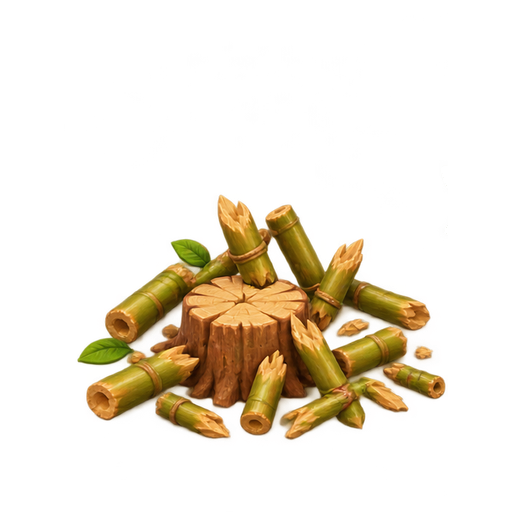
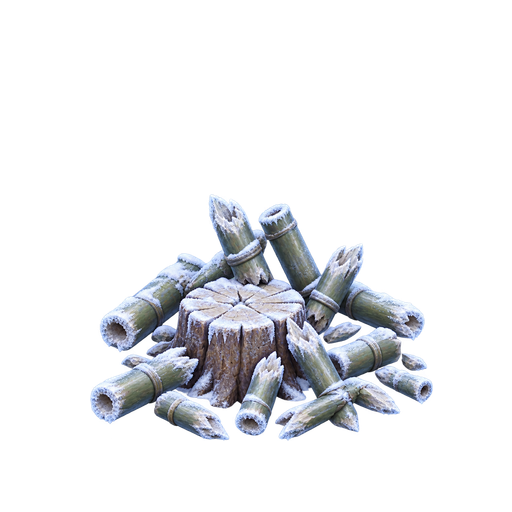
Workshop ruins repainted (brief 40): frozen and waiting, so rebuilding floods them with colour

Changed region(s): [[0.1562, 0.375, 0.875, 0.875]]

diff --git a/m92be43d0ac/index.html b/m92be43d0ac/index.html
@@ -8081,7 +8081,7 @@ function makeHearth(lv) {
   for (const q of S.people) { if (PEOPLE_ART.includes(q.id)) { for (const ps of PEOPLE_POSES) if (!IMG['p-' + q.id + '-' + ps]) load('p-' + q.id + '-' + ps, `art4/people/p-${q.id}-${ps}.png?v=3`); }
     else if (!IMG['k' + q.stand]) load('k' + q.stand, `art4/k${q.stand}.png?v=13`); }
   // Codex's brief 38 (2026-10-09): the Heartstone in four states, each workshop in four, the material, the dusk banner and the horn
-  const A = (n, v = 1) => IMG[n] || load(n, `art4/hearth/${n}.png?v=${n.startsWith('hs-') ? 2 : v}`);
+  const A = (n, v = 1) => IMG[n] || load(n, `art4/hearth/${n}.png?v=${n.startsWith('hs-') || n.endsWith('-ruin') ? 2 : v}`)   // (briefs 39 and 40 repainted the stones and the ruins);
   for (const k of ['whole', 'hurt', 'frozen', 'surge']) A(`hs-${st.art}-${k}`);
   for (const p of plots) for (const k of ['ruin', 'built', 'u1', 'u2']) A(`ws-${p.id}-${k}`);
   A('mat-' + C.mat); A('horn-' + (C.mat === 'shell' ? 'conch' : 'bamboo'));
